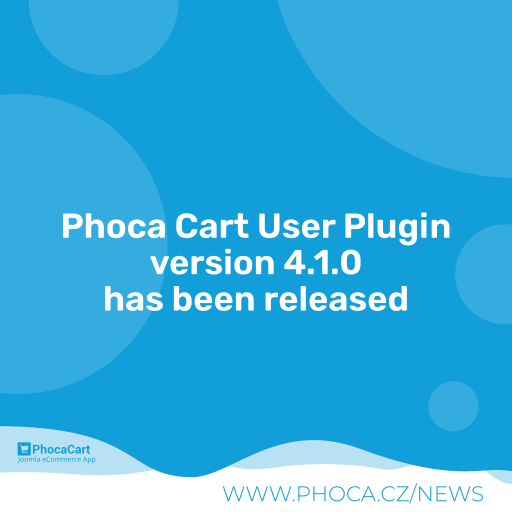
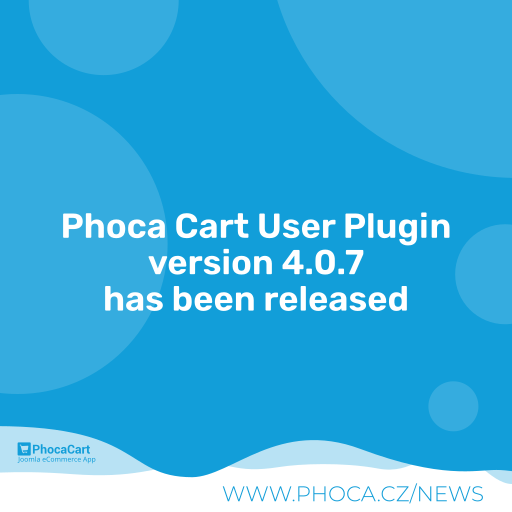
4.0.7

Changed region(s): [[0.2812, 0.4688, 0.7188, 0.5625]]

diff --git a/README.MD b/README.MD
@@ -56,11 +56,11 @@ Phoca Cart User Plugin - a Joomla! CMS plugin that allows changing (updating) th
 
 ## Version (Joomla! 3.x)
 
-3.5.7
+3.5.8
 
 ## Version (Joomla! 4.x)
 
-4.1.0
+4.0.7
 
 
 
